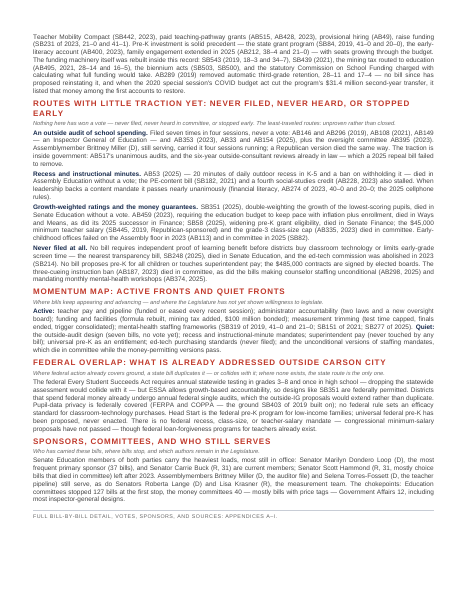
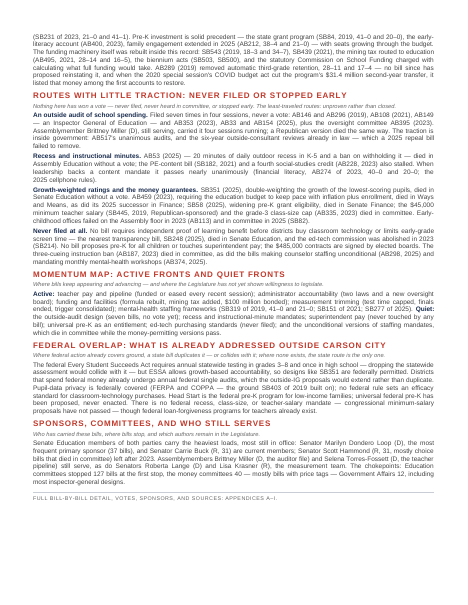
K-12 educational outcomes citizen-v3.0: single-line headers and widow-free formatting polish

Changed region(s): [[0.0598, 0.0595, 0.9274, 0.8628]]

diff --git a/briefs/nevada/k-12_educational_outcomes/citizen-v3/citizen-brief.html b/briefs/nevada/k-12_educational_outcomes/citizen-v3/citizen-brief.html
@@ -4,11 +4,11 @@
 <meta charset="utf-8">
 <meta name="viewport" content="width=device-width, initial-scale=1">
 <meta name="review-status" content="READY FOR HUMAN REVIEW">
-<!-- citizen-v2.0 tone/format revision · 2026-07-27 · status: READY FOR HUMAN REVIEW -->
+<!-- citizen-v3.0 tone/format revision · 2026-07-27 · status: READY FOR HUMAN REVIEW -->
 <title>K-12 Educational Outcomes in Nevada</title>
 <link rel="stylesheet" href="citizen-brief-print.css">
 <style>
-  /* adult prose layout (citizen-v2.0, k-12_educational_outcomes) */
+  /* adult prose layout (citizen-v3.0, k-12_educational_outcomes) */
   body { font-size: 8.5pt; line-height: 1.25; }
   h2.sec { margin: 5pt 0 2.5pt; }
   h3.subsec { margin: 2.5pt 0 1.5pt; }
@@ -19,6 +19,9 @@
   .stat-card { padding: 3pt 5pt 3.5pt; }
   .stat-num { font-size: 18pt; }
   .stat-num.compact { font-size: 13.5pt; padding-top: 3.5pt; }
+  /* v3 polish: no widow lines; balanced headers, deks, explainers, captions */
+  h1.title, h2.sec, h3.subsec, .stat-cap, .dek, p.explainer-block { text-wrap: balance; }
+  p.lead-item { text-wrap: pretty; }
 </style>
 </head>
 <body>
@@ -27,16 +30,16 @@
   <div class="forum">The&nbsp;Forum</div>
   <hr class="navy-rule">
   <h1 class="title">K-12 Educational Outcomes in Nevada</h1>
-  <p class="dek">The legislative record behind Nevadans&rsquo; ten most common K-12 education proposals, 2019&ndash;2025 &mdash; organized by how far each idea has traveled toward law.</p>
+  <p class="dek">The legislative record behind Nevadans&rsquo; ten most common K-12 education proposals, 2019&ndash;2025 &mdash; organized by how far each idea has traveled&nbsp;toward&nbsp;law.</p>
 </header>
 
 <section>
   <h2 class="sec">What this brief covers and how it is organized</h2>
-  <p class="lead-item">Education is the Legislature&rsquo;s biggest and most cross-party subject: 513 bills across the 2019, 2021, 2023, and 2025 sessions, 228 of them now law (see Key numbers for the cross-party count). The big structural fight settled early &mdash; SB543 (2019) replaced the Nevada Plan with the Pupil-Centered Funding Plan &mdash; and every session since has built on it. Raises, audits, funding acts, and licensure bills pass, usually near-unanimously, and get signed; what stalls is narrower &mdash; oversight machinery, classroom-time mandates, and changes to what gets measured, several within one vote of law. The sections below sort the record by distance traveled: bills that passed both chambers, then bills with a winning vote behind them, then settled law and its openings, then routes with no traction yet &mdash; with notes on momentum, federal overlap, and sponsors.</p>
+  <p class="lead-item">Education is the Legislature&rsquo;s biggest and most cross-party subject: 513 bills across the 2019, 2021, 2023, and 2025 sessions, 228 of them now law (see Key numbers for the cross-party count). The big structural fight settled early &mdash; SB543 (2019) replaced the Nevada Plan with the Pupil-Centered Funding Plan &mdash; and every session since has built on it. Raises, audits, funding acts, and licensure bills pass, usually near-unanimously, and get signed; what stalls is narrower &mdash; oversight machinery, classroom-time mandates, and changes to what gets measured, several within one vote of law. The sections below sort the record by distance traveled: bills that passed both chambers, then bills with a winning vote behind them, then settled law and its openings, then routes with no traction yet &mdash; with notes on momentum, federal overlap,&nbsp;and&nbsp;sponsors.</p>
 </section>
 
 <section>
-  <h2 class="sec">Key numbers: how far education proposals have traveled</h2>
+  <h2 class="sec">Key numbers: how far these proposals have traveled</h2>
   <p class="explainer-block">Each figure below is unpacked, bill by bill, in the section it points to.</p>
   <div class="stat-strip">
     <div class="stat-card">
@@ -63,54 +66,54 @@
 </section>
 
 <section>
-  <h2 class="sec">Closest to law: bills that passed both chambers and stopped at the last step</h2>
-  <p class="explainer-block">These bills assembled majorities in both houses; only a veto or the session clock separated them from statute &mdash; the record&rsquo;s most advanced unfinished work.</p>
+  <h2 class="sec">Closest to law: bills that passed both chambers</h2>
+  <p class="explainer-block">These bills assembled majorities in both houses; only a veto or the session clock separated them from statute &mdash; the record&rsquo;s most advanced unfinished&nbsp;work.</p>
   <h3 class="subsec">Passed both chambers, lost to the clock</h3>
-  <p class="lead-item"><strong class="li">An alternative Read by Grade 3 assessment &mdash; AB386 (2025).</strong> Let Washoe County pilot an alternative literacy assessment; passed the Assembly 40&ndash;0 and the Senate 21&ndash;0 as amended, then died awaiting a final concurrence vote at session&rsquo;s end. Two unanimous chambers make it the record&rsquo;s most advanced unfinished education bill.</p>
+  <p class="lead-item"><strong class="li">An alternative Read by Grade 3 assessment &mdash; AB386 (2025).</strong> Let Washoe County pilot an alternative literacy assessment; passed the Assembly 40&ndash;0 and the Senate 21&ndash;0 as amended, then died awaiting a final concurrence vote at session&rsquo;s end. Two unanimous chambers make it the record&rsquo;s most advanced unfinished education&nbsp;bill.</p>
   <h3 class="subsec">Vetoed at the governor&rsquo;s desk</h3>
-  <p class="lead-item">All 13 education vetoes fall in 2023 and 2025 and attach to specific designs: <strong class="li">the statewide children&rsquo;s mental-health consortium (AB265, 2023)</strong>, vetoed after passing 42&ndash;0 and 20&ndash;0; <strong class="li">the substitute-teacher insurance subsidy (AB282, 2023)</strong>, vetoed after 31&ndash;11 and 16&ndash;4; <strong class="li">class-size collective bargaining (AB155, 2025)</strong>. Collective-bargaining, school-adjacent health, and library bills stop at the desk &mdash; several with proven majorities, one unanimous &mdash; while raises, audits, and funding acts are signed.</p>
+  <p class="lead-item">All 13 education vetoes fall in 2023 and 2025 and attach to specific designs: <strong class="li">the statewide children&rsquo;s mental-health consortium (AB265, 2023)</strong>, vetoed after passing 42&ndash;0 and 20&ndash;0; <strong class="li">the substitute-teacher insurance subsidy (AB282, 2023)</strong>, vetoed after 31&ndash;11 and 16&ndash;4; <strong class="li">class-size collective bargaining (AB155, 2025)</strong>. Collective-bargaining, school-adjacent health, and library bills stop at the desk &mdash; several with proven majorities, one unanimous &mdash; while raises, audits, and funding acts&nbsp;are&nbsp;signed.</p>
 </section>
 
 <section>
-  <h2 class="sec">Demonstrated support: bills that cleared one chamber or a committee</h2>
-  <p class="explainer-block">Each bill here won a recorded majority &mdash; in committee or on a floor &mdash; before stalling: the strongest signal short of passage.</p>
-  <p class="lead-item"><strong class="li">Measurement bills that won votes.</strong> Competency-based education expansion (SB403, 2025) passed the Senate 21&ndash;0 and died in the second house. The social-emotional measurement bills, SB313 (2023) and SB314 (2025), cleared committee both times &mdash; carried by Senator Roberta Lange (D) with Senator Lisa Krasner (R), both still serving &mdash; and died on the Senate floor twice, never on a recorded vote against them.</p>
-  <p class="lead-item"><strong class="li">Full rights for appointed trustees &mdash; 2025.</strong> The upgrade of AB175&rsquo;s four appointed nonvoting Clark County trustees to full voting rights with term limits passed the Assembly 24&ndash;18 and died in Senate Education. The base law, AB175 (2023), had passed 29&ndash;11 and 16&ndash;4 after appointed-seat bills died in committee in 2019, 2021, and 2023 &mdash; the idea has moved further each cycle.</p>
+  <h2 class="sec">Proven support: bills that cleared a chamber or a committee</h2>
+  <p class="explainer-block">Each bill here won a recorded majority &mdash; in committee or on a floor &mdash; before stalling: the strongest signal short&nbsp;of&nbsp;passage.</p>
+  <p class="lead-item"><strong class="li">Measurement bills that won votes.</strong> Competency-based education expansion (SB403, 2025) passed the Senate 21&ndash;0 and died in the second house. The social-emotional measurement bills, SB313 (2023) and SB314 (2025), cleared committee both times &mdash; carried by Senator Roberta Lange (D) with Senator Lisa Krasner (R), both still serving &mdash; and died on the Senate floor twice, never on a recorded vote&nbsp;against&nbsp;them.</p>
+  <p class="lead-item"><strong class="li">Full rights for appointed trustees &mdash; 2025.</strong> The upgrade of AB175&rsquo;s four appointed nonvoting Clark County trustees to full voting rights with term limits passed the Assembly 24&ndash;18 and died in Senate Education. The base law, AB175 (2023), had passed 29&ndash;11 and 16&ndash;4 after appointed-seat bills died in committee in 2019, 2021, and 2023 &mdash; the idea has moved further&nbsp;each&nbsp;cycle.</p>
 </section>
 
 <section>
   <h2 class="sec">Already law &mdash; and the openings around it</h2>
-  <p class="explainer-block">Fresh statutes mark ground unlikely to be revisited soon &mdash; and the lanes where the Legislature keeps building.</p>
+  <p class="explainer-block">Fresh statutes mark ground unlikely to be revisited soon &mdash; and the lanes where the Legislature keeps&nbsp;building.</p>
   <h3 class="subsec">Recently settled ground (2025 session)</h3>
-  <p class="lead-item">The 2025 session funded extra pay for hard-to-fill positions (AB398, 20&ndash;0 and 41&ndash;1), let out-of-state teachers start work provisionally (AB49, 42&ndash;0 and 21&ndash;0), created principal consequences and a Public Education Oversight Board (SB460, 21&ndash;0 and 38&ndash;4), made the statewide assessment the sole Read by Grade 3 trigger (SB278, 42&ndash;0 and 21&ndash;0), required district cellphone policies (SB444, 42&ndash;0 and 21&ndash;0), banned AI from counselor duties (AB406), added school social workers where money allows (SB277, 38&ndash;1 and 15&ndash;5), bonded $100 million for emergency school repairs (AB224, 41&ndash;1 and 21&ndash;0), opened cross-zone transfers with transportation grants (AB533), and passed the biennium funding act (SB500, 42&ndash;0 and 13&ndash;8). Bills restating these would duplicate just-completed work and are unlikely to advance.</p>
+  <p class="lead-item">The 2025 session funded extra pay for hard-to-fill positions (AB398, 20&ndash;0 and 41&ndash;1), let out-of-state teachers start work provisionally (AB49, 42&ndash;0 and 21&ndash;0), created principal consequences and a Public Education Oversight Board (SB460, 21&ndash;0 and 38&ndash;4), made the statewide assessment the sole Read by Grade 3 trigger (SB278, 42&ndash;0 and 21&ndash;0), required district cellphone policies (SB444, 42&ndash;0 and 21&ndash;0), banned AI from counselor duties (AB406), added school social workers where money allows (SB277, 38&ndash;1 and 15&ndash;5), bonded $100 million for emergency school repairs (AB224, 41&ndash;1 and 21&ndash;0), opened cross-zone transfers with transportation grants (AB533), and passed the biennium funding act (SB500, 42&ndash;0 and 13&ndash;8). Bills restating these would duplicate just-completed work and are unlikely&nbsp;to&nbsp;advance.</p>
   <h3 class="subsec">Where the record points further</h3>
-  <p class="lead-item">The accountability lane is widening, not closing: AB517 (2023) ordered recurring legislative performance audits of the two biggest districts and the charter authority, 42&ndash;0 and 21&ndash;0, first audits due in 2026, and SB460&rsquo;s new oversight board gives future accountability proposals a statutory home. Principal accountability is law twice over (SB292 of 2023, 21&ndash;0 and 39&ndash;3; SB460). Nevada&rsquo;s ratings already include a growth component &mdash; the failed bills changed its weight, not its existence &mdash; and testing has been trimmed twice (SB353 of 2021, capping test time, 42&ndash;0 and 21&ndash;0; SB9 of 2023, ending end-of-course finals). The teacher pipeline keeps passing near-unanimously: the Interstate Teacher Mobility Compact (SB442, 2023), paid teaching-pathway grants (AB515, AB428, 2023), provisional hiring (AB49), raise funding (SB231 of 2023, 21&ndash;0 and 41&ndash;1). Pre-K investment is solid precedent &mdash; the state grant program (SB84, 2019, 41&ndash;0 and 20&ndash;0), the early-literacy account (AB400, 2023), family engagement extended in 2025 (AB212, 38&ndash;4 and 21&ndash;0) &mdash; with seats growing through the budget. The funding machinery itself was rebuilt inside this record: SB543 (2019, 18&ndash;3 and 34&ndash;7), SB439 (2021), the mining tax routed to education (AB495, 2021, 28&ndash;14 and 16&ndash;5), the biennium acts (SB503, SB500), and the statutory Commission on School Funding charged with calculating what full funding would take. AB289 (2019) removed automatic third-grade retention, 28&ndash;11 and 17&ndash;4 &mdash; no bill since has proposed reinstating it, and when the 2020 special session&rsquo;s COVID budget act cut the program&rsquo;s $31.4 million second-year transfer, it listed that money among the first accounts to restore.</p>
+  <p class="lead-item">The accountability lane is widening, not closing: AB517 (2023) ordered recurring legislative performance audits of the two biggest districts and the charter authority, 42&ndash;0 and 21&ndash;0, first audits due in 2026, and SB460&rsquo;s new oversight board gives future accountability proposals a statutory home. Principal accountability is law twice over (SB292 of 2023, 21&ndash;0 and 39&ndash;3; SB460). Nevada&rsquo;s ratings already include a growth component &mdash; the failed bills changed its weight, not its existence &mdash; and testing has been trimmed twice (SB353 of 2021, capping test time, 42&ndash;0 and 21&ndash;0; SB9 of 2023, ending end-of-course finals). The teacher pipeline keeps passing near-unanimously: the Interstate Teacher Mobility Compact (SB442, 2023), paid teaching-pathway grants (AB515, AB428, 2023), provisional hiring (AB49), raise funding (SB231 of 2023, 21&ndash;0 and 41&ndash;1). Pre-K investment is solid precedent &mdash; the state grant program (SB84, 2019, 41&ndash;0 and 20&ndash;0), the early-literacy account (AB400, 2023), family engagement extended in 2025 (AB212, 38&ndash;4 and 21&ndash;0) &mdash; with seats growing through the budget. The funding machinery itself was rebuilt inside this record: SB543 (2019, 18&ndash;3 and 34&ndash;7), SB439 (2021), the mining tax routed to education (AB495, 2021, 28&ndash;14 and 16&ndash;5), the biennium acts (SB503, SB500), and the statutory Commission on School Funding charged with calculating what full funding would take. AB289 (2019) removed automatic third-grade retention, 28&ndash;11 and 17&ndash;4 &mdash; no bill since has proposed reinstating it, and when the 2020 special session&rsquo;s COVID budget act cut the program&rsquo;s $31.4 million second-year transfer, it listed that money among the first accounts&nbsp;to&nbsp;restore.</p>
 </section>
 
 <section>
-  <h2 class="sec">Routes with little traction yet: never filed, never heard, or stopped early</h2>
-  <p class="explainer-block">Nothing here has won a vote &mdash; never filed, never heard in committee, or stopped early. The least-traveled routes: unproven rather than closed.</p>
-  <p class="lead-item"><strong class="li">An outside audit of school spending.</strong> Filed seven times in four sessions, never a vote: AB146 and AB296 (2019), AB108 (2021), AB149 &mdash; an Inspector General of Education &mdash; and AB353 (2023), AB33 and AB154 (2025), plus the oversight committee AB395 (2023). Assemblymember Brittney Miller (D), still serving, carried it four sessions running; a Republican version died the same way. The traction is inside government: AB517&rsquo;s unanimous audits, and the six-year outside-consultant reviews already in law &mdash; which a 2025 repeal bill failed to remove.</p>
-  <p class="lead-item"><strong class="li">Recess and instructional minutes.</strong> AB53 (2025) &mdash; 20 minutes of daily outdoor recess in K-5 and a ban on withholding it &mdash; died in Assembly Education without a vote; the PE-content bill (SB182, 2021) and a fourth social-studies credit (AB228, 2023) also stalled. When leadership backs a content mandate it passes nearly unanimously (financial literacy, AB274 of 2023, 40&ndash;0 and 20&ndash;0; the 2025 cellphone rules).</p>
-  <p class="lead-item"><strong class="li">Growth-weighted ratings and the money guarantees.</strong> SB351 (2025), double-weighting the growth of the lowest-scoring pupils, died in Senate Education without a vote. AB459 (2023), requiring the education budget to keep pace with inflation plus enrollment, died in Ways and Means, as did its 2025 successor in Finance; SB58 (2025), widening pre-K grant eligibility, died in Senate Finance; the $45,000 minimum teacher salary (SB445, 2019, Republican-sponsored) and the grade-3 class-size cap (AB335, 2023) died in committee. Early-childhood offices failed on the Assembly floor in 2023 (AB113) and in committee in 2025 (SB82).</p>
-  <p class="lead-item"><strong class="li">Never filed at all.</strong> No bill requires independent proof of learning benefit before districts buy classroom technology or limits early-grade screen time &mdash; the nearest transparency bill, SB248 (2025), died in Senate Education, and the ed-tech commission was abolished in 2023 (SB214). No bill proposes pre-K for all children or touches superintendent pay; the $485,000 contracts are signed by elected boards. The three-cueing instruction ban (AB187, 2023) died in committee, as did the bills making counselor staffing unconditional (AB298, 2025) and mandating monthly mental-health workshops (AB374, 2025).</p>
+  <h2 class="sec">Routes with little traction: never filed or stopped early</h2>
+  <p class="explainer-block">Nothing here has won a vote &mdash; never filed, never heard in committee, or stopped early. The least-traveled routes: unproven rather&nbsp;than&nbsp;closed.</p>
+  <p class="lead-item"><strong class="li">An outside audit of school spending.</strong> Filed seven times in four sessions, never a vote: AB146 and AB296 (2019), AB108 (2021), AB149 &mdash; an Inspector General of Education &mdash; and AB353 (2023), AB33 and AB154 (2025), plus the oversight committee AB395 (2023). Assemblymember Brittney Miller (D), still serving, carried it four sessions running; a Republican version died the same way. The traction is inside government: AB517&rsquo;s unanimous audits, and the six-year outside-consultant reviews already in law &mdash; which a 2025 repeal bill failed&nbsp;to&nbsp;remove.</p>
+  <p class="lead-item"><strong class="li">Recess and instructional minutes.</strong> AB53 (2025) &mdash; 20 minutes of daily outdoor recess in K-5 and a ban on withholding it &mdash; died in Assembly Education without a vote; the PE-content bill (SB182, 2021) and a fourth social-studies credit (AB228, 2023) also stalled. When leadership backs a content mandate it passes nearly unanimously (financial literacy, AB274 of 2023, 40&ndash;0 and 20&ndash;0; the 2025&nbsp;cellphone&nbsp;rules).</p>
+  <p class="lead-item"><strong class="li">Growth-weighted ratings and the money guarantees.</strong> SB351 (2025), double-weighting the growth of the lowest-scoring pupils, died in Senate Education without a vote. AB459 (2023), requiring the education budget to keep pace with inflation plus enrollment, died in Ways and Means, as did its 2025 successor in Finance; SB58 (2025), widening pre-K grant eligibility, died in Senate Finance; the $45,000 minimum teacher salary (SB445, 2019, Republican-sponsored) and the grade-3 class-size cap (AB335, 2023) died in committee. Early-childhood offices failed on the Assembly floor in 2023 (AB113) and in committee in&nbsp;2025&nbsp;(SB82).</p>
+  <p class="lead-item"><strong class="li">Never filed at all.</strong> No bill requires independent proof of learning benefit before districts buy classroom technology or limits early-grade screen time &mdash; the nearest transparency bill, SB248 (2025), died in Senate Education, and the ed-tech commission was abolished in 2023 (SB214). No bill proposes pre-K for all children or touches superintendent pay; the $485,000 contracts are signed by elected boards. The three-cueing instruction ban (AB187, 2023) died in committee, as did the bills making counselor staffing unconditional (AB298, 2025) and mandating monthly mental-health workshops&nbsp;(AB374,&nbsp;2025).</p>
 </section>
 
 <section>
   <h2 class="sec">Momentum map: active fronts and quiet fronts</h2>
-  <p class="explainer-block">Where bills keep appearing and advancing &mdash; and where the Legislature has not yet shown willingness to legislate.</p>
-  <p class="lead-item"><strong class="li">Active:</strong> teacher pay and pipeline (funded or eased every recent session); administrator accountability (two laws and a new oversight board); funding and facilities (formula rebuilt, mining tax added, $100 million bonded); measurement trimming (test time capped, finals ended, trigger consolidated); mental-health staffing frameworks (SB319 of 2019, 41&ndash;0 and 21&ndash;0; SB151 of 2021; SB277 of 2025). <strong class="li">Quiet:</strong> the outside-audit design (seven bills, no vote yet); recess and instructional-minute mandates; superintendent pay (never touched by any bill); universal pre-K as an entitlement; ed-tech purchasing standards (never filed); and the unconditional versions of staffing mandates, which die in committee while the money-permitting versions pass.</p>
+  <p class="explainer-block">Where bills keep appearing and advancing &mdash; and where the Legislature has not yet shown willingness to&nbsp;legislate.</p>
+  <p class="lead-item"><strong class="li">Active:</strong> teacher pay and pipeline (funded or eased every recent session); administrator accountability (two laws and a new oversight board); funding and facilities (formula rebuilt, mining tax added, $100 million bonded); measurement trimming (test time capped, finals ended, trigger consolidated); mental-health staffing frameworks (SB319 of 2019, 41&ndash;0 and 21&ndash;0; SB151 of 2021; SB277 of 2025). <strong class="li">Quiet:</strong> the outside-audit design (seven bills, no vote yet); recess and instructional-minute mandates; superintendent pay (never touched by any bill); universal pre-K as an entitlement; ed-tech purchasing standards (never filed); and the unconditional versions of staffing mandates, which die in committee while the money-permitting versions&nbsp;pass.</p>
 </section>
 
 <section>
   <h2 class="sec">Federal overlap: what is already addressed outside Carson City</h2>
-  <p class="explainer-block">Where federal action already covers ground, a state bill duplicates it &mdash; or collides with it; where none exists, the state route is the only one.</p>
-  <p class="lead-item">The federal Every Student Succeeds Act requires annual statewide testing in grades 3&ndash;8 and once in high school &mdash; dropping the statewide assessment would collide with it &mdash; but ESSA allows growth-based accountability, so designs like SB351 are federally permitted. Districts that spend federal money already undergo annual federal single audits, which the outside-IG proposals would extend rather than duplicate. Pupil-data privacy is federally covered (FERPA and COPPA &mdash; the ground SB403 of 2019 built on); no federal rule sets an efficacy standard for classroom-technology purchases. Head Start is the federal pre-K program for low-income families; universal federal pre-K has been proposed, never enacted. There is no federal recess, class-size, or teacher-salary mandate &mdash; congressional minimum-salary proposals have not passed &mdash; though federal loan-forgiveness programs for teachers already exist.</p>
+  <p class="explainer-block">Where federal action already covers ground, a state bill duplicates it &mdash; or collides with it; where none exists, the state route is the&nbsp;only&nbsp;one.</p>
+  <p class="lead-item">The federal Every Student Succeeds Act requires annual statewide testing in grades 3&ndash;8 and once in high school &mdash; dropping the statewide assessment would collide with it &mdash; but ESSA allows growth-based accountability, so designs like SB351 are federally permitted. Districts that spend federal money already undergo annual federal single audits, which the outside-IG proposals would extend rather than duplicate. Pupil-data privacy is federally covered (FERPA and COPPA &mdash; the ground SB403 of 2019 built on); no federal rule sets an efficacy standard for classroom-technology purchases. Head Start is the federal pre-K program for low-income families; universal federal pre-K has been proposed, never enacted. There is no federal recess, class-size, or teacher-salary mandate &mdash; congressional minimum-salary proposals have not passed &mdash; though federal loan-forgiveness programs for teachers&nbsp;already&nbsp;exist.</p>
 </section>
 
 <section>
   <h2 class="sec">Sponsors, committees, and who still serves</h2>
-  <p class="explainer-block">Who has carried these bills, where bills stop, and which authors remain in the Legislature.</p>
+  <p class="explainer-block">Who has carried these bills, where bills stop, and which authors remain in&nbsp;the&nbsp;Legislature.</p>
   <p class="lead-item">Senate Education members of both parties carry the heaviest loads, most still in office: Senator Marilyn Dondero Loop (D), the most frequent primary sponsor (37 bills), and Senator Carrie Buck (R, 31) are current members; Senator Scott Hammond (R, 31, mostly choice bills that died in committee) left after 2023. Assemblymembers Brittney Miller (D, the auditor file) and Selena Torres-Fossett (D, the teacher pipeline) still serve, as do Senators Roberta Lange (D) and Lisa Krasner (R), the measurement team. The chokepoints: Education committees stopped 127 bills at the first stop, the money committees 40 &mdash; mostly bills with price tags &mdash; Government Affairs 12, including most inspector-general designs.</p>
 </section>
 

diff --git a/briefs/nevada/k-12_educational_outcomes/citizen-v3/citizen-brief.md b/briefs/nevada/k-12_educational_outcomes/citizen-v3/citizen-brief.md
@@ -2,7 +2,7 @@
 issue_id: nevada-03-k-12-educational-outcomes
 issue_title: K-12 Educational Outcomes in Nevada
 brief_type: citizen-front-brief
-version: citizen-v2.0
+version: citizen-v3.0
 organization: The Nevada Forum
 generated_by: citizen-brief-writer v2.3
 date: 2026-07-27
@@ -17,7 +17,7 @@ The legislative record behind Nevadans' ten most common K-12 education proposals
 
 Education is the Legislature's biggest and most cross-party subject: 513 bills across the 2019, 2021, 2023, and 2025 sessions, 228 of them now law (see Key numbers for the cross-party count). The big structural fight settled early — SB543 (2019) replaced the Nevada Plan with the Pupil-Centered Funding Plan — and every session since has built on it. Raises, audits, funding acts, and licensure bills pass, usually near-unanimously, and get signed; what stalls is narrower — oversight machinery, classroom-time mandates, and changes to what gets measured, several within one vote of law. The sections below sort the record by distance traveled: bills that passed both chambers, then bills with a winning vote behind them, then settled law and its openings, then routes with no traction yet — with notes on momentum, federal overlap, and sponsors.
 
-## Key numbers: how far education proposals have traveled
+## Key numbers: how far these proposals have traveled
 
 *Each figure below is unpacked, bill by bill, in the section it points to.*
 
@@ -27,7 +27,7 @@ Education is the Legislature's biggest and most cross-party subject: 513 bills a
 - **55** bills carried sponsors from both parties — 28 became law
 - **7** outside-audit bills filed; none has yet received a vote
 
-## Closest to law: bills that passed both chambers and stopped at the last step
+## Closest to law: bills that passed both chambers
 
 *These bills assembled majorities in both houses; only a veto or the session clock separated them from statute — the record's most advanced unfinished work.*
 
@@ -39,7 +39,7 @@ Education is the Legislature's biggest and most cross-party subject: 513 bills a
 
 All 13 education vetoes fall in 2023 and 2025 and attach to specific designs: **the statewide children's mental-health consortium (AB265, 2023)**, vetoed after passing 42–0 and 20–0; **the substitute-teacher insurance subsidy (AB282, 2023)**, vetoed after 31–11 and 16–4; **class-size collective bargaining (AB155, 2025)**. Collective-bargaining, school-adjacent health, and library bills stop at the desk — several with proven majorities, one unanimous — while raises, audits, and funding acts are signed.
 
-## Demonstrated support: bills that cleared one chamber or a committee
+## Proven support: bills that cleared a chamber or a committee
 
 *Each bill here won a recorded majority — in committee or on a floor — before stalling: the strongest signal short of passage.*
 
@@ -59,7 +59,7 @@ The 2025 session funded extra pay for hard-to-fill positions (AB398, 20–0 and 
 
 The accountability lane is widening, not closing: AB517 (2023) ordered recurring legislative performance audits of the two biggest districts and the charter authority, 42–0 and 21–0, first audits due in 2026, and SB460's new oversight board gives future accountability proposals a statutory home. Principal accountability is law twice over (SB292 of 2023, 21–0 and 39–3; SB460). Nevada's ratings already include a growth component — the failed bills changed its weight, not its existence — and testing has been trimmed twice (SB353 of 2021, capping test time, 42–0 and 21–0; SB9 of 2023, ending end-of-course finals). The teacher pipeline keeps passing near-unanimously: the Interstate Teacher Mobility Compact (SB442, 2023), paid teaching-pathway grants (AB515, AB428, 2023), provisional hiring (AB49), raise funding (SB231 of 2023, 21–0 and 41–1). Pre-K investment is solid precedent — the state grant program (SB84, 2019, 41–0 and 20–0), the early-literacy account (AB400, 2023), family engagement extended in 2025 (AB212, 38–4 and 21–0) — with seats growing through the budget. The funding machinery itself was rebuilt inside this record: SB543 (2019, 18–3 and 34–7), SB439 (2021), the mining tax routed to education (AB495, 2021, 28–14 and 16–5), the biennium acts (SB503, SB500), and the statutory Commission on School Funding charged with calculating what full funding would take. AB289 (2019) removed automatic third-grade retention, 28–11 and 17–4 — no bill since has proposed reinstating it, and when the 2020 special session's COVID budget act cut the program's $31.4 million second-year transfer, it listed that money among the first accounts to restore.
 
-## Routes with little traction yet: never filed, never heard, or stopped early
+## Routes with little traction: never filed or stopped early
 
 *Nothing here has won a vote — never filed, never heard in committee, or stopped early. The least-traveled routes: unproven rather than closed.*
 

diff --git a/briefs/nevada/k-12_educational_outcomes/citizen-v3/PACKAGE.md b/briefs/nevada/k-12_educational_outcomes/citizen-v3/PACKAGE.md
@@ -1,13 +1,32 @@
-# Package — K-12 Educational Outcomes in Nevada (citizen-v2.0)
+# Package — K-12 Educational Outcomes in Nevada (citizen-v3.0)
 
 Design Packager v2.3 · 2026-07-27 · The Nevada Forum
 
-citizen-v2.0 is the tone/format revision of citizen-v1.0, produced per Forum
-direction (2026-07-27). `citizen-v1/` is untouched; compare the two folders
-side by side. Facts, bills, and votes are unchanged — only presentation,
-organization, and voice.
+citizen-v3.0 is the formatting-polish pass over citizen-v2.0, produced per
+Forum direction (2026-07-27). `citizen-v1/` and `citizen-v2/` are untouched;
+compare the folders side by side. Facts, bills, and votes are unchanged
+throughout — v2.0 changed presentation, organization, and voice; v3.0
+changes layout polish only.
 
-## What changed from v1.0 (shared across all four issue briefs)
+## What changed from v2.0 (v3.0 formatting polish)
+
+Content is unchanged from v2.0 — v3.0 is a formatting-only pass:
+
+- **Single-line section headers.** Every terracotta H2 was shortened to hold
+  one line in both the HTML and Word renders (the full nuance stays in the
+  explainer line under each header).
+- **No widow lines.** No paragraph, dek, or explainer ends with fewer than
+  three words: the exporters glue the final words with non-breaking spaces,
+  and the HTML adds `text-wrap: pretty` on body paragraphs.
+- **Balanced wraps.** Title, dek, section explainers, and stat-card captions
+  use `text-wrap: balance`, so any multi-line run breaks into even lines
+  instead of a long line over a short one.
+- **Word export.** Widow/orphan control on every paragraph plus the same
+  last-line gluing; still direct-formatted (renders identically across
+  Word, Word Online, Google Docs, LibreOffice, Pages).
+- Both renders re-verified at exactly **2 US Letter pages**.
+
+## What changed from v1.0 (introduced in v2.0, retained here)
 
 - **Sections reordered by viability.** Proposals now appear in order of how
   far their bills traveled: passed both chambers (vetoed or timed out) first,
@@ -40,23 +59,23 @@ organization, and voice.
 
 | File | What it is |
 |---|---|
-| `citizen-brief.md` | Source markdown of the 2-page front brief (v2.0) |
+| `citizen-brief.md` | Source markdown of the 2-page front brief (v3.0) |
 | `citizen-brief.html` | Print-ready front brief (verified 2 US Letter pages in headless Chrome) |
 | `citizen-brief.docx` | Word version of the front brief (verified 2 pages in LibreOffice) |
-| `citizen-brief-print.css` | Shared Phase 2 print CSS + v2 `h3.subsec` subsection style |
+| `citizen-brief-print.css` | Shared Phase 2 print CSS + v2 `h3.subsec` subsection style (v3 widow/balance rules live in the HTML head) |
 | `appendices/` | Appendices A–I (markdown), `appendices-print.html`, `appendices.docx` — unchanged from v1.0 |
-| `render-check/` | Page images of both verified v2.0 renders (HTML and Word) |
+| `render-check/` | Page images of both verified v3.0 renders (HTML and Word) |
 | `review-report.md` / `.json` | Citizen Reviewer output for the **v1.0** content (v2.0 revision not yet re-reviewed) |
 
 ## Rebuild the outputs
 
 ```bash
 # HTML (Phase 2 shell; masthead, terracotta H2s, stat strip, subsection H3s)
-python collectors/export_brief_html.py --brief-dir briefs/nevada/k-12_educational_outcomes/citizen-v2
+python collectors/export_brief_html.py --brief-dir briefs/nevada/k-12_educational_outcomes/citizen-v3
 
 # Word (front brief via python-docx direct formatting; appendices via pandoc)
 ISSUE_CONFIG=config/issues/nevada-k-12_educational_outcomes.yaml \
-python collectors/export_docx.py --brief-dir briefs/nevada/k-12_educational_outcomes/citizen-v2
+python collectors/export_docx.py --brief-dir briefs/nevada/k-12_educational_outcomes/citizen-v3
 ```
 
 ## Print to PDF
@@ -87,4 +106,4 @@ Issue-title strings that the print assembler stamps from the first
 (water-scarcity) run were corrected in `appendices-print.html` after
 generation (title, kicker, footline); all data content is untouched builder
 output. See Appendix I for the full list of documented post-build
-corrections. `render-check/` images were regenerated for v2.0.
+corrections. `render-check/` images were regenerated for v3.0.
